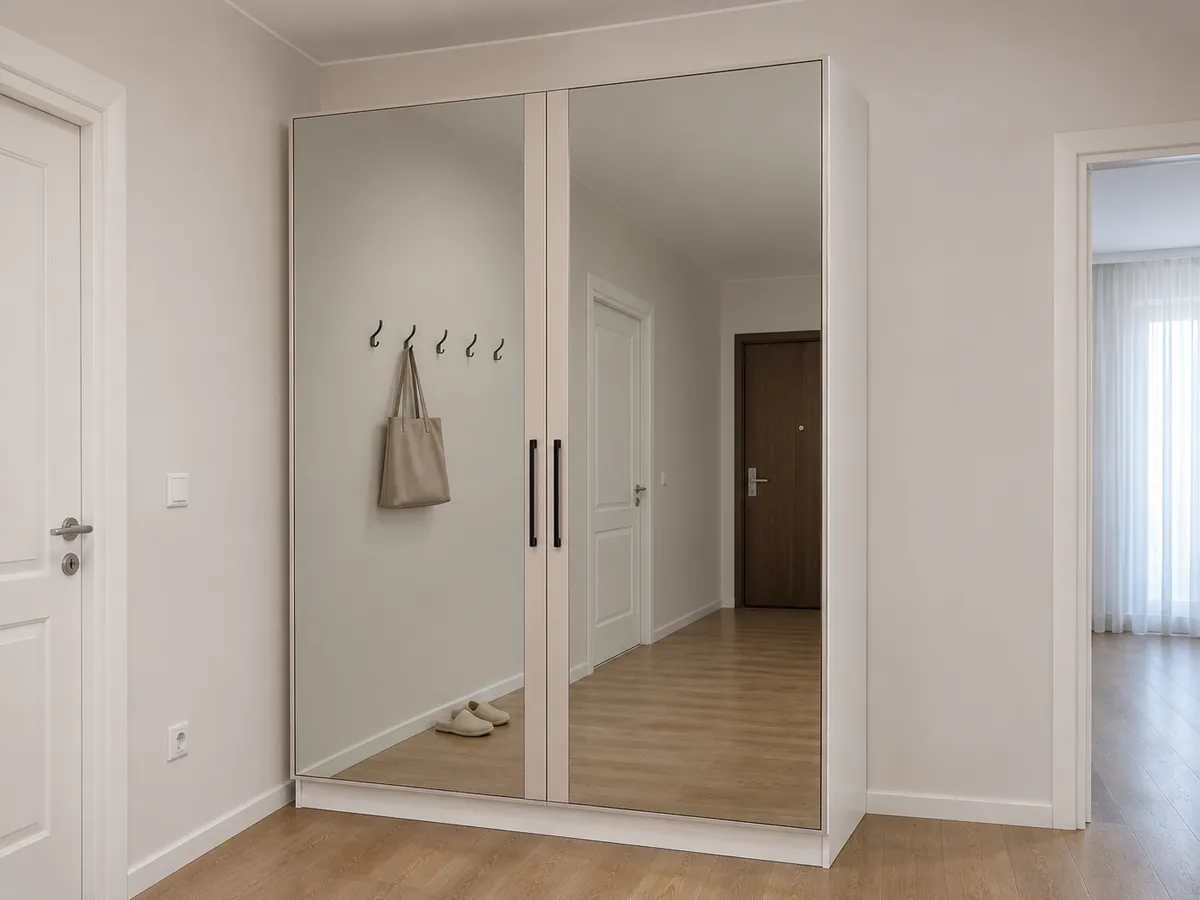
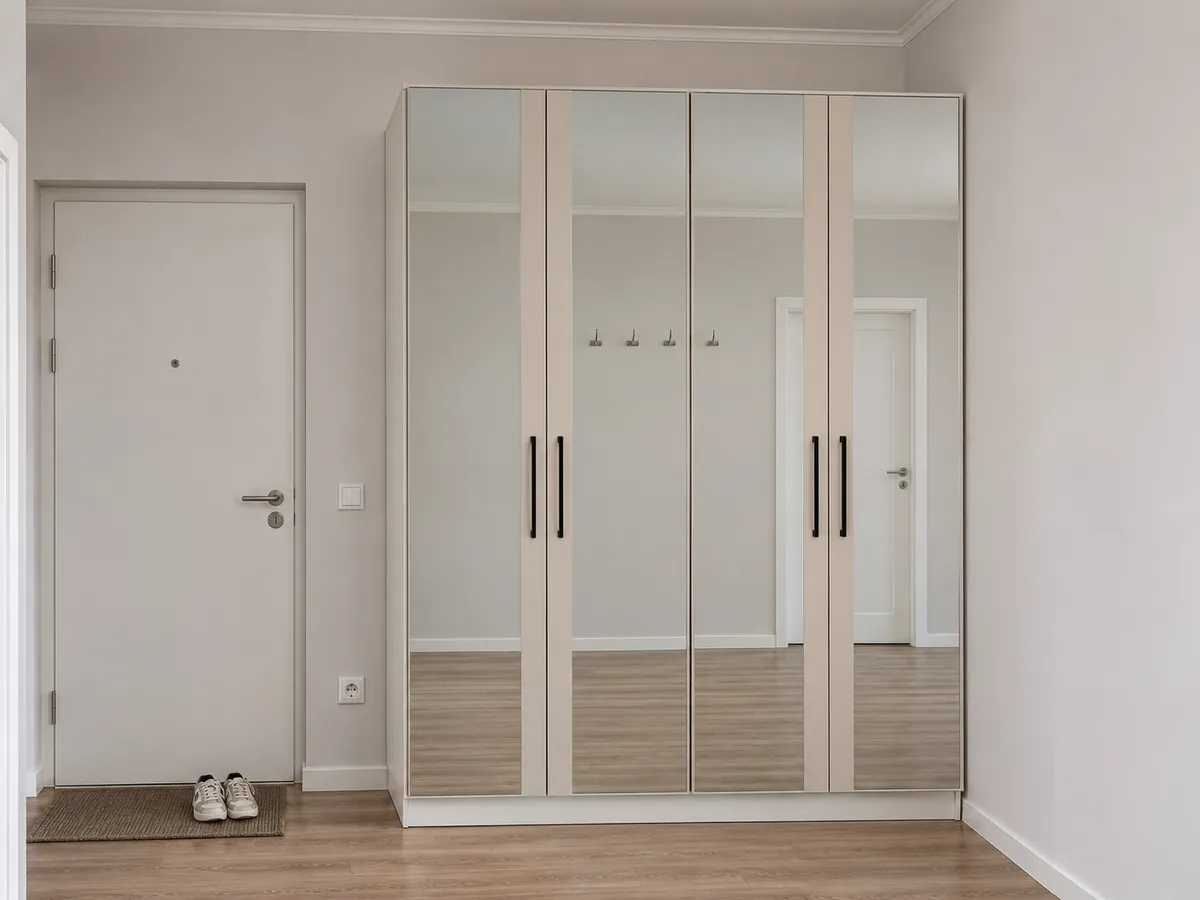
Poze magazin: lot 16 (15 acceptate: refaceri + bucătării)
Claude-Session: https://claude.ai/code/session_01DkYx5WLa5NvGEmk4PJjpx9

diff --git a/scripts/shop-photo-review-pilot.md b/scripts/shop-photo-review-pilot.md
@@ -708,3 +708,44 @@ Ten new models/variants (briefs from `shop-art-direction-v3.json`, renders from 
 
 - No new general rule needed. 9 of 10 pass; the open pieces (cuier, open nightstand) and the mirror wardrobes came out right the first time.
 - The only failure repeats two old ones together: TV unit drifting into a bedroom, and the piece plus TV scaled up together so that only the door and socket give it away. For low TV units, always state the top height as a relation to the door handle ("less than half the handle height").
+
+---
+
+# Batch 16
+
+16 photos: 6 redos of the batch 14 rejects, 1 new wall unit, 9 kitchens (first kitchens reviewed). `comoda-tv-160/alb-total` skipped (old reject, redo still running). All cm figures are pixel estimates, +-10%.
+
+| Photo | Verdict | Realism | Notes |
+|---|---|---|---|
+| comoda-4-sertare-100/gri-casmir (redo) | ACCEPT | 8/10 | The wardrobe is gone; the chest is the only cabinet. 4 drawers with steel GOLA channels, plinth, about 100 cm high (top at door-handle level). Wall mirror reflects curtain and the bed that is in the foreground. |
+| comoda-clasica-160/stejar-natur (redo) | ACCEPT | 8/10 | TV and wardrobe are gone. 2 x 3 drawers, black knobs, plinth: matches render. About 2:1, top about 85-90 cm. Plant and a small sculpture on top, framed print above. |
+| comoda-hol-120/nuc-crem (redo) | ACCEPT | 7.5/10 | Lamp is off, fruit bowl replaced by an empty dish. 2 cream doors, black bar handles, walnut body and plinth: matches render. Hall with entrance door and mat; a window and a rope basket are unusual for a hall but believable. |
+| dressing-ingust-90/gri-casmir (redo) | ACCEPT | 8/10 | Front now about 2.5:1 and as wide as the door leaf beside it (reads 88-90 cm). 2 doors, 2 black knobs. Stands in a recess under a bulkhead, reads about 220 cm; fine. |
+| dressing-sticla-300/grafit-total (redo) | ACCEPT | 8/10 | No glowing lines any more. 3 glass doors in graphite frames, hanging / shelves / double rail inside as in the render. Glass reflects window and bed faintly, plausible. |
+| dressing-hol-oglinda-160/alb-casmir (redo) | ACCEPT | 7.5/10 | Now a near-frontal view, no stretching. 4 mirror doors with cashmere strips and 4 black handles placed as in the render. Reads about 175 cm wide against the 205 cm door (about 10% wide, at the limit). Mirrors show the opposite hall wall with hooks and an inner door, no camera. |
+| suspendat-pat-240/alb-stejar-natur | REJECT | 6/10 | Piece is right (4 oak doors, white body, no handles, about 40 cm high). Two brief breaches: (1) hung low: underside about 133 cm, top about 172 cm, some 38 cm under the door-frame top (brief: underside 150, top 190, 15-20 cm under the frame top); (2) the bed reads about 210 cm wide, so the 240 cm cabinet overhangs it by only about 20 cm on the left and 3 cm on the right (brief: 40 cm each side) and looks like a 180 cm unit. |
+| bucatarie-240/alb-stejar-natur | ACCEPT | 8/10 | Lowers: 3 drawers, door with handle under the sink, plain dishwasher front, oven with hob: as render. Uppers: 4 doors with handles as render, slim hood under the 4th. Pale grey stone worktop, grey tiles, kettle, board, herb pot. Worktop about 88 cm against the room door, total about 212 cm. |
+| bucatarie-240/alb-total | ACCEPT | 7.5/10 | Same layout, black handles as in the render, oak worktop, white square tiles. Coffee maker; a book instead of the fruit bowl. Strong sun patches (brief says overcast), harmless. |
+| bucatarie-compacta-180/alb-total | ACCEPT | 7.5/10 | Sink door, 3 drawers, oven with hob; 3 upper doors, the third shorter over the slim hood: as render. Steel handles, oak worktop, sage tiles, toaster, utensil jar, sofa edge. Left end is free-standing on a longer wall instead of wall to wall; believable. Worktop about 90 cm, total about 225 cm. |
+| bucatarie-260/alb-casmir | ACCEPT | 8.5/10 | 3 drawers, hob over 3 drawers, plain dishwasher front, sink over 2 doors; 5 upper doors, second one short over the hood: as render. Cashmere fronts, white body and plinth, steel handles. Worktop about 84 cm, total about 225 cm, door handle about 102 cm. Tea towel tucked on the dishwasher front. |
+| bucatarie-260/alb-total | ACCEPT | 8/10 | Same layout in white, dark grey stone worktop as briefed, coffee maker and herb pot. Gap between worktop and uppers reads about 48 cm (a little tight), total about 217 cm. |
+| bucatarie-frigider-300/alb-total | ACCEPT | 8/10 | Fridge column with tall door + short top door tight to the left wall; 3 drawers, sink door, plain front, oven with hob; 4 uppers, hood under the last: as render. Steel handles, marble-look worktop. Worktop about 89 cm, total about 217 cm. Chopping board instead of lemons. |
+| bucatarie-frigider-300/gri-casmir | ACCEPT | 8/10 | Same layout, all cashmere including plinth, oak worktop, zellige tiles, spice rack, board, jar. Last upper sits a few mm lower than its neighbours; not noticeable. |
+| bucatarie-coloane-380/alb-total | ACCEPT | 8/10 | Fridge column; oven column (2 drawers, oven, microwave, small door); 3 drawers; 2 sink doors; plain dishwasher front; 3 drawers under the hob. Uppers: door, pair, door, door over hood: as render. Black handles, dark concrete worktop, coffee machine, stools. Worktop about 87 cm, total about 220 cm. |
+| bucatarie-coloane-380/stejar-alb | ACCEPT | 7.5/10 | Same layout, white fronts, oak plinth, end panel and oven-column frame as render, white worktop, metro tiles, bowl, kettle, unlabelled bottle. An apron hangs from the fridge handle down to the floor; slightly untidy but real. |
+
+## Rejects
+
+**suspendat-pat-240/alb-stejar-natur**
+- Hang the cabinet higher: its underside is 150 cm from the floor, level with the top third of the room door; its top is 190 cm, only 15-20 cm below the top of the door frame.
+- Leave 45 cm of bare wall between the headboard top and the cabinet underside.
+- The bed is 160 cm wide, narrower than the cabinet: the cabinet sticks out 40 cm past the headboard on the left and 40 cm on the right. The headboard is two thirds of the cabinet width.
+- Camera 4 m back, 35 mm; the far door of the cabinet is at least 80% as wide as the near one.
+
+## Patterns
+
+- All six redos fixed their flagged defect without introducing a new one.
+- Kitchens: 9 of 9 pass. Module order, door/drawer counts, handle positions, the handle-less dishwasher front and the slim hood follow the renders; worktops follow the briefs; worktop height reads 84-90 cm and total height 212-226 cm against doors and switches.
+- Kitchen note, no rule change: on runs of 3 m and more the far module is 71-77% of the near one. That is geometry at 4 m and 15-25 degrees, not lens stretching, so A9's 80% should not be enforced on kitchens longer than 2.6 m.
+- Small props drift from the brief (book instead of fruit bowl, board instead of lemons). Not worth redos.
+- Wall units over a bed still tend to hang 15-20 cm low and the bed grows with them: keep stating the height as a relation to the door frame and the bed width as a fraction of the cabinet.
